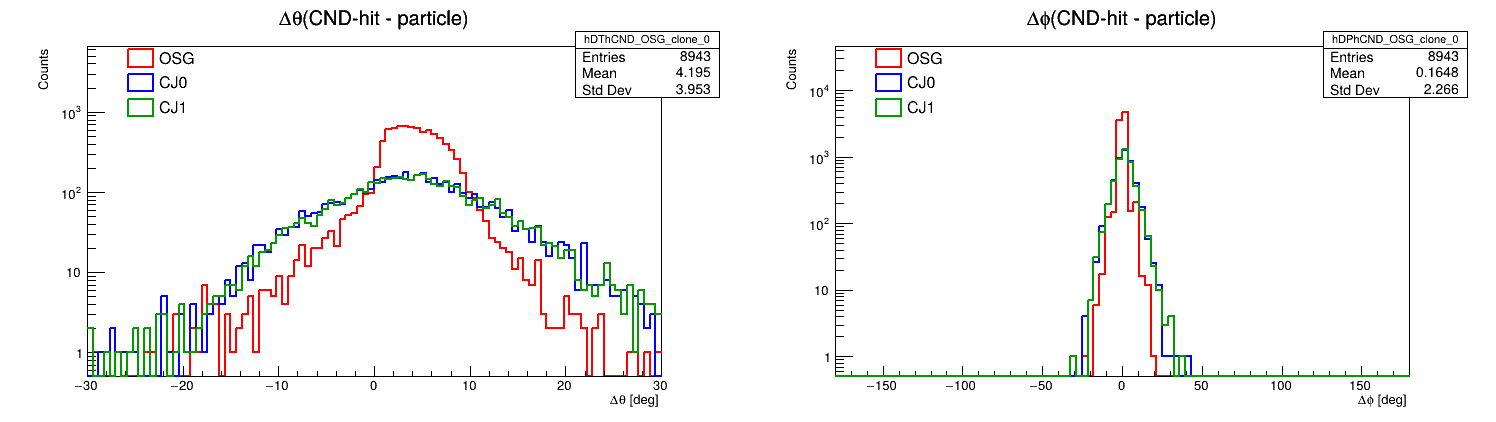
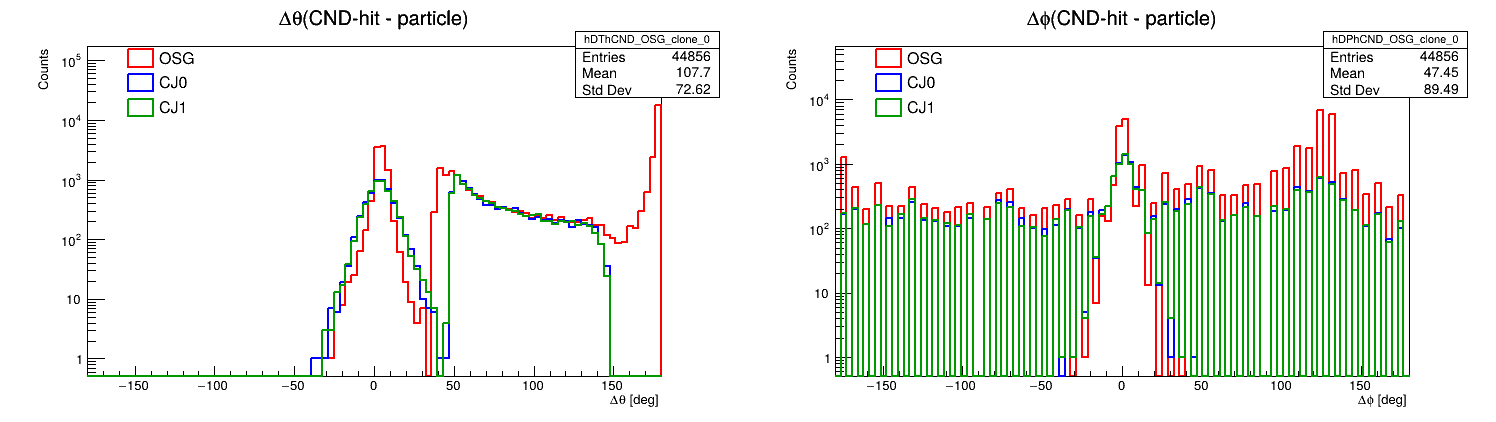
🎨 Improve structure of the code

diff --git a/compare_cnd_versions.C b/compare_cnd_versions.C
@@ -93,15 +93,22 @@ struct Hists
 Hists book_hists(const char *tag)
 {
     Hists h;
-    h.hP = new TH1F(TString::Format("hP_%s", tag), TString::Format("Neutron p (%s) from REC::Particle;p [GeV];Counts", tag), 100, 0, 5);
-    h.hTheta = new TH1F(TString::Format("hTh_%s", tag), TString::Format("Neutron #theta (%s) from REC::Particle;#theta [deg];Counts", tag), 100, 0, 180);
-    h.hPhi = new TH1F(TString::Format("hPhi_%s", tag), TString::Format("Neutron #phi (%s) from REC::Particle;#phi [deg];Counts", tag), 100, -180, 180);
+    // h.hP = new TH1F(TString::Format("hP_%s", tag), TString::Format("Neutron p (%s) from REC::Particle;p [GeV];Counts", tag), 100, 0, 5);
+    // h.hTheta = new TH1F(TString::Format("hTh_%s", tag), TString::Format("Neutron #theta (%s) from REC::Particle;#theta [deg];Counts", tag), 100, 0, 180);
+    // h.hPhi = new TH1F(TString::Format("hPhi_%s", tag), TString::Format("Neutron #phi (%s) from REC::Particle;#phi [deg];Counts", tag), 100, -180, 180);
+    h.hP = new TH1F(TString::Format("hP_%s", tag), TString::Format("Neutron p (%s) from REC::Particle;p [GeV];Counts", tag), 100, 0, 1.3);
+    h.hTheta = new TH1F(TString::Format("hTh_%s", tag), TString::Format("Neutron #theta (%s) from REC::Particle;#theta [deg];Counts", tag), 100, 35, 115);
+    h.hPhi = new TH1F(TString::Format("hPhi_%s", tag), TString::Format("Neutron #phi (%s) from REC::Particle;#phi [deg];Counts", tag), 100, 90, 150);
 
+
+    // h.hEnergy_CND = new TH1F(TString::Format("hECND_%s", tag), TString::Format("Neutron E (%s) from CND-hit;E [GeV];Counts", tag), 100, 0, 12);
+    // h.hTheta_CND = new TH1F(TString::Format("hThCND_%s", tag), TString::Format("Neutron #theta (%s) from CND-hit;#theta [deg];Counts", tag), 100, 0, 180);
+    // h.hPhi_CND = new TH1F(TString::Format("hPhiCND_%s", tag), TString::Format("Neutron #phi (%s) from CND-hit;#phi [deg];Counts", tag), 100, -180, 180);
     h.hEnergy_CND = new TH1F(TString::Format("hECND_%s", tag), TString::Format("Neutron E (%s) from CND-hit;E [GeV];Counts", tag), 100, 0, 12);
     h.hTheta_CND = new TH1F(TString::Format("hThCND_%s", tag), TString::Format("Neutron #theta (%s) from CND-hit;#theta [deg];Counts", tag), 100, 0, 180);
-    h.hPhi_CND = new TH1F(TString::Format("hPhiCND_%s", tag), TString::Format("Neutron #phi (%s) from CND-hit;#phi [deg];Counts", tag), 100, -180, 180);
+    h.hPhi_CND = new TH1F(TString::Format("hPhiCND_%s", tag), TString::Format("Neutron #phi (%s) from CND-hit;#phi [deg];Counts", tag), 100, 90, 150);
 
-    h.hDTheta_CND = new TH1F(TString::Format("hDThCND_%s", tag), "#Delta#theta(CND-hit - particle);#Delta#theta [deg];Counts", 100, -30, 30);
+    h.hDTheta_CND = new TH1F(TString::Format("hDThCND_%s", tag), "#Delta#theta(CND-hit - particle);#Delta#theta [deg];Counts", 100, -180, 180);
     h.hDPhi_CND = new TH1F(TString::Format("hDPhCND_%s", tag), "#Delta#phi(CND-hit - particle);#Delta#phi [deg];Counts", 100, -180, 180);
 
     h.hPTheta = new TH2F(TString::Format("hPTh_%s", tag), TString::Format("#theta vs p (%s) from REC::Particle;p [GeV];#theta [deg]", tag),
@@ -111,9 +118,12 @@ Hists book_hists(const char *tag)
     h.hThetaPhi = new TH2F(TString::Format("hThPhi_%s", tag), TString::Format("#phi vs #theta (%s) from REC::Particle;#theta [deg];#phi [deg]", tag),
                            100, 0, 180, 100, -180, 180);
 
-    h.hPMC = new TH1F(TString::Format("hPMC_%s", tag), TString::Format("MC Neutron p (%s);p [GeV];Counts", tag), 100, 0, 5);
-    h.hThetaMC = new TH1F(TString::Format("hThMC_%s", tag), TString::Format("MC Neutron #theta (%s);#theta [deg];Counts", tag), 100, 0, 180);
-    h.hPhiMC = new TH1F(TString::Format("hPhiMC_%s", tag), TString::Format("MC Neutron #phi (%s);#phi [deg];Counts", tag), 100, -180, 180);
+    // h.hPMC = new TH1F(TString::Format("hPMC_%s", tag), TString::Format("MC Neutron p (%s);p [GeV];Counts", tag), 100, 0, 5);
+    // h.hThetaMC = new TH1F(TString::Format("hThMC_%s", tag), TString::Format("MC Neutron #theta (%s);#theta [deg];Counts", tag), 100, 0, 180);
+    // h.hPhiMC = new TH1F(TString::Format("hPhiMC_%s", tag), TString::Format("MC Neutron #phi (%s);#phi [deg];Counts", tag), 100, -180, 180);
+    h.hPMC = new TH1F(TString::Format("hPMC_%s", tag), TString::Format("MC Neutron p (%s);p [GeV];Counts", tag), 100, 0, 1.3);
+    h.hThetaMC = new TH1F(TString::Format("hThMC_%s", tag), TString::Format("MC Neutron #theta (%s);#theta [deg];Counts", tag), 100, 35, 115);
+    h.hPhiMC = new TH1F(TString::Format("hPhiMC_%s", tag), TString::Format("MC Neutron #phi (%s);#phi [deg];Counts", tag), 100, 90, 150);
 
     h.hDTheta_REC_MC = new TH1F(TString::Format("hDTh_REC_MC_%s", tag), "#Delta#theta(REC - MC);#Delta#theta [deg];Counts", 200, -12, 12);
     h.hDPhi_REC_MC = new TH1F(TString::Format("hDPh_REC_MC_%s", tag), "#Delta#phi(REC - MC);#Delta#phi [deg];Counts", 200, -15, 15);
@@ -164,8 +174,8 @@ MatchResult match_neutron_rec_to_mc(const TVector3 &pREC,
         const float pz = MCPT.getFloat("pz", imc);
 
         TVector3 pMC(px, py, pz);
-        if (pMC.Mag() < 1e-6)
-            continue; // skip zero-momentum
+        // if (pMC.Mag() < 1e-6)
+        //     continue; // skip zero-momentum
 
         const float ang = pREC.Angle(pMC) * TMath::RadToDeg();
 
@@ -358,8 +368,8 @@ void process_chain(TChain *chain, Hists &h, const char *tag, int maxEvents = 300
                 TVector3 pREC(px, py, pz);
                 const float pt_rec = std::sqrt(px * px + py * py);
 
-                if (pt_rec < pt_min)
-                    continue; // too low momentum
+                // if (pt_rec < pt_min)
+                //     continue; // too low momentum
 
                 // if (pREC.Mag() < 1e-6)
                 //     continue; // skip zero-momentum
@@ -464,6 +474,28 @@ void process_chain(TChain *chain, Hists &h, const char *tag, int maxEvents = 300
     std::cout << "Processed " << processed << " events for " << tag << std::endl;
 }
 
+void addEntriesColumnMajor(TLegend* leg,
+                           const std::vector<TH1*>& h,
+                           const std::vector<const char*>& labels,
+                           int ncols,
+                           const char* opt = "f")
+{
+    const int n = (int)h.size();
+    const int nrows = (int)std::ceil((double)n / ncols);
+
+    // Column-major order: (row, col) -> i = col*nrows + row
+    // Add in the order: row=0..nrows-1, col=0..ncols-1
+    for (int row = 0; row < nrows; ++row)
+    {
+        for (int col = 0; col < ncols; ++col)
+        {
+            int i = col * nrows + row;
+            if (i >= n) continue;
+            leg->AddEntry(h[i], labels[i], opt);
+        }
+    }
+}
+
 void draw_overlay_1D_N(const std::vector<TH1 *> &h_in,
                        const std::vector<const char *> &labels,
                        bool normalize = true,
@@ -512,8 +544,15 @@ void draw_overlay_1D_N(const std::vector<TH1 *> &h_in,
 
     // Colors (edit as you like)
     const std::vector<int> colors = {
-        kRed, kBlue, kGreen + 2, kMagenta, kOrange - 3, kCyan,
-        kViolet + 1, kGray + 2};
+        kRed,
+        kBlue,
+        kGreen + 2,
+        kMagenta - 8,
+        kOrange - 3,
+        kMagenta + 1,
+        kViolet + 1,
+        kGray + 2
+    };
 
     for (size_t i = 0; i < h.size(); ++i)
     {
@@ -542,9 +581,10 @@ void draw_overlay_1D_N(const std::vector<TH1 *> &h_in,
     leg->SetBorderSize(0);
     leg->SetFillStyle(0);
 
-    for (size_t i = 0; i < h.size(); ++i)
-        leg->AddEntry(h[i], labels[i], "f");
+    // for (size_t i = 0; i < h.size(); ++i)
+    //     leg->AddEntry(h[i], labels[i], "f");
 
+    addEntriesColumnMajor(leg, h, labels, leg_ncols, "f");
     leg->Draw();
 }
 
